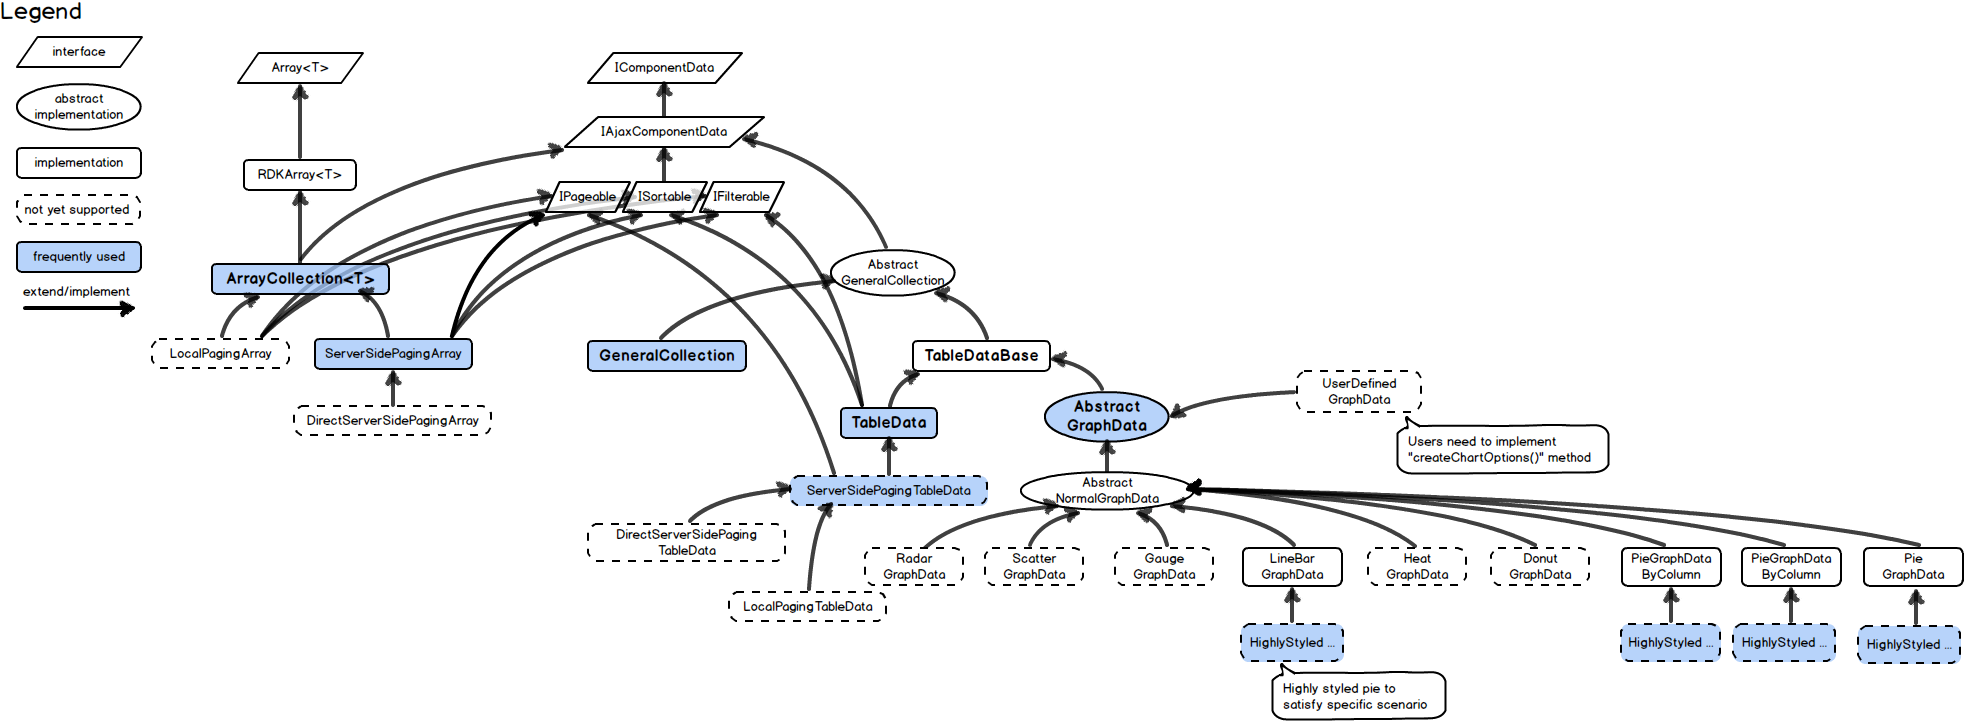
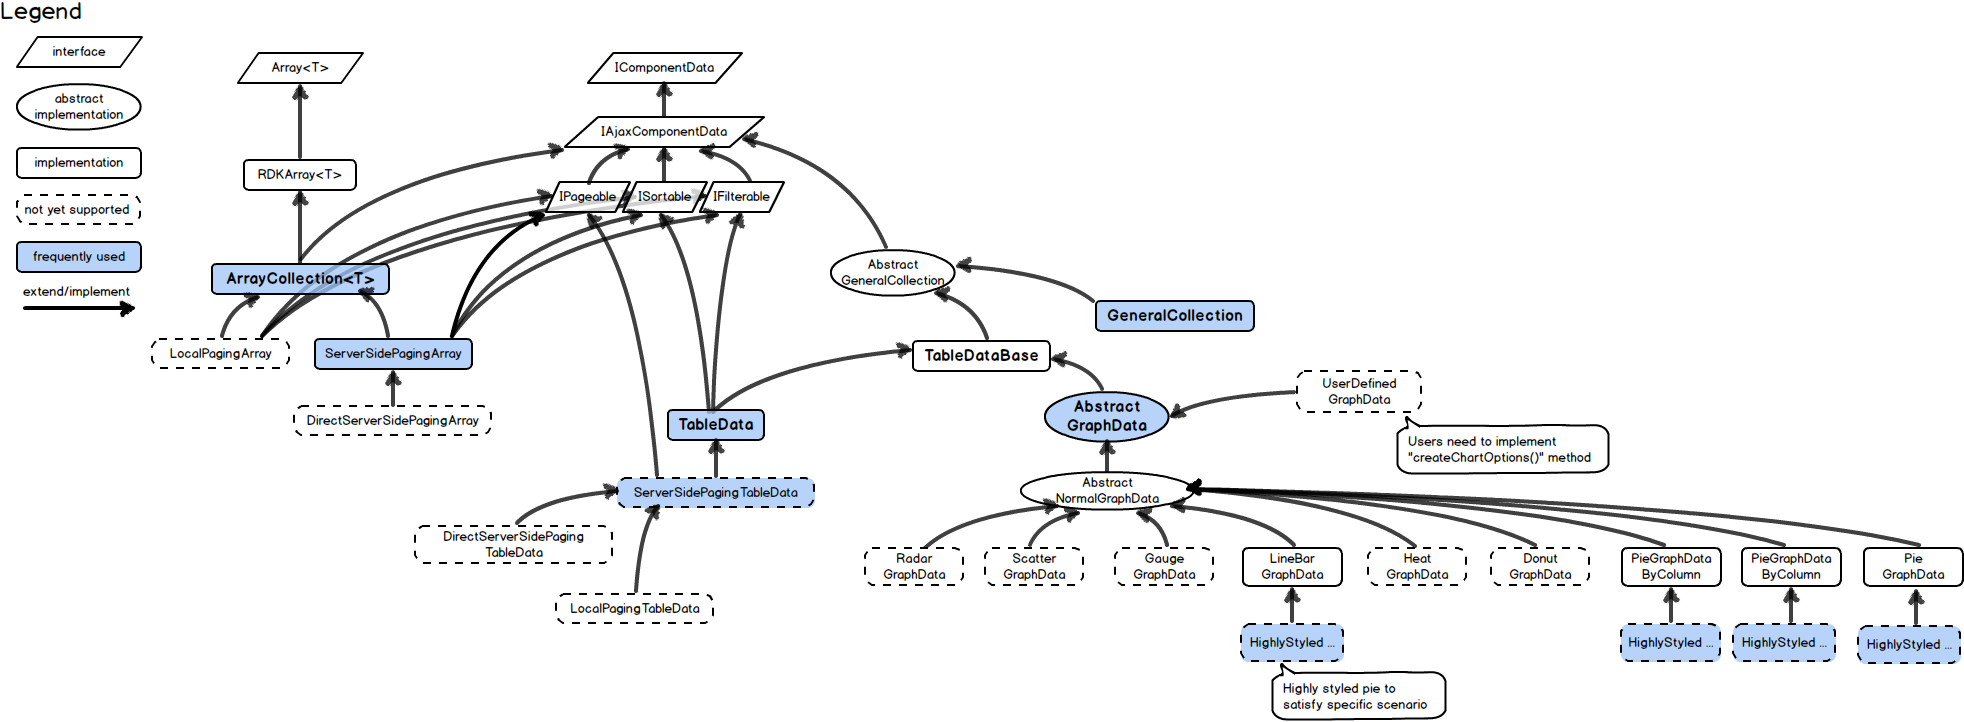
ServerSidePagingTableData

diff --git a/src/rdk/core/data/table-data.ts b/src/rdk/core/data/table-data.ts
@@ -1,4 +1,8 @@
 import {AbstractGeneralCollection} from "./general-collection";
+import {
+    IFilterable, IPageable, ISortable, PagingBasicInfo, PagingFilterInfo, PagingSortInfo, SortAs,
+    SortOrder
+} from "./component-data";
 
 type TableMatrixRow = Array<string|number>;
 export type TableDataHeader = string[];
@@ -100,6 +104,25 @@ export class TableDataBase extends AbstractGeneralCollection {
     }
 }
 
-export class TableData extends TableDataBase {
+export class TableData extends TableDataBase implements ISortable, IFilterable {
+    public sortInfo: PagingSortInfo;
+    public filterInfo: PagingFilterInfo;
 
+    public sort(as: SortAs, order: SortOrder, field: string | number): void;
+    public sort(sort: PagingSortInfo): void;
+    public sort(as, order?: SortOrder, field?: string | number): void {
+    }
+
+    public filter(term: string, fields?: string[] | number[]): void;
+    public filter(term: PagingFilterInfo): void;
+    public filter(term, fields?: string[] | number[]): void {
+    }
+
+}
+
+export class ServerSidePagingTableData extends TableData implements IPageable {
+    public pagingInfo: PagingBasicInfo;
+
+    public changePage(currentPage: number, pageSize?: number): void {
+    }
 }
